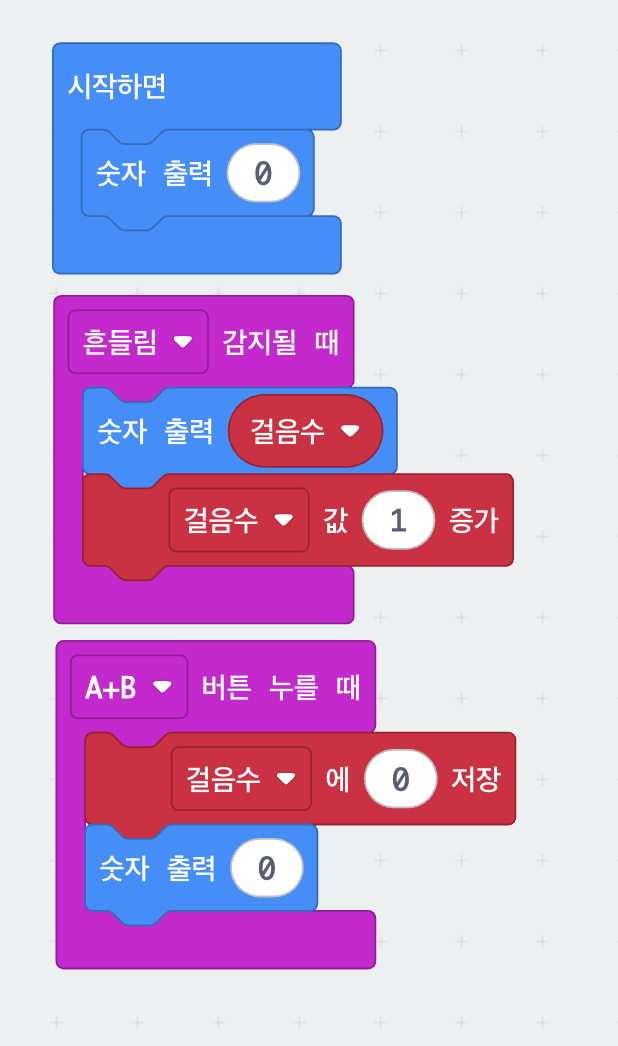
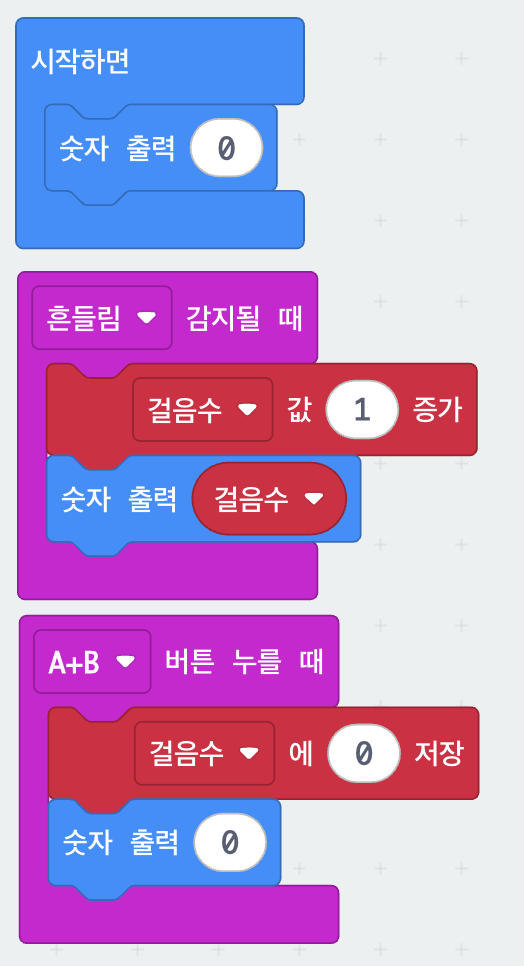
Update pedometer block code image to increment-then-show order
Replace images/pedometer.png with the corrected capture where the step
count is incremented before it is displayed. Update the alt text to
match, and replace the now-obsolete off-by-one troubleshooting note
with tips that apply to the corrected code.

diff --git a/p1-pedometer.html b/p1-pedometer.html
@@ -44,7 +44,7 @@
 
           <figure class="shot">
             <img src="images/pedometer.png" loading="lazy"
-                 alt="만보기 블록 코드. 시작하면 숫자 0을 출력하고, 흔들림이 감지될 때 걸음수를 출력한 뒤 걸음수 값을 1 증가시키며, A+B 버튼을 누르면 걸음수에 0을 저장하고 0을 출력한다.">
+                 alt="만보기 블록 코드. 시작하면 숫자 0을 출력하고, 흔들림이 감지될 때 걸음수 값을 1 증가시킨 뒤 걸음수를 출력하며, A+B 버튼을 누르면 걸음수에 0을 저장하고 0을 출력한다.">
           </figure>
 
         </section>
@@ -78,15 +78,12 @@
         </section>
 
         <!-- 6. 막힐 때 — 오른쪽 -->
-        <!-- TODO(미확정): 이 1 차이를 설명으로 안내할지, 블록 순서를 바꿔 코드를 수정할지 확정 필요.
-             코드를 고치면 images/pedometer.png 도 다시 캡처해야 합니다.
-             지금은 요청서대로 "설명으로 안내" 상태입니다. -->
         <section class="box box--note">
           <h2>막힐 때</h2>
-          <p><strong>화면에 나오는 숫자가 실제로 흔든 횟수보다 1 적어요.</strong></p>
-          <p>블록이 <em>숫자를 먼저 출력하고</em> 그다음에 값을 1 올리는 순서라서 그렇습니다.
-             즉 화면에 보이는 숫자는 <strong>이번에 흔들기 직전까지의 걸음 수</strong>입니다.
-             고장이 아니니 그대로 두고 써도 괜찮아요.</p>
+          <p><strong>흔들어도 숫자가 안 올라가요.</strong><br>
+             살짝 흔들면 감지되지 않습니다. 손목을 이용해 <strong>딱 끊어지게</strong> 흔들어 보세요.</p>
+          <p><strong>한 번 흔들었는데 2씩 올라가요.</strong><br>
+             크게 흔들면 흔들림이 두 번 감지될 수 있습니다. 고장이 아니니 조금 작게 흔들어 보세요.</p>
         </section>
 
       </div>
